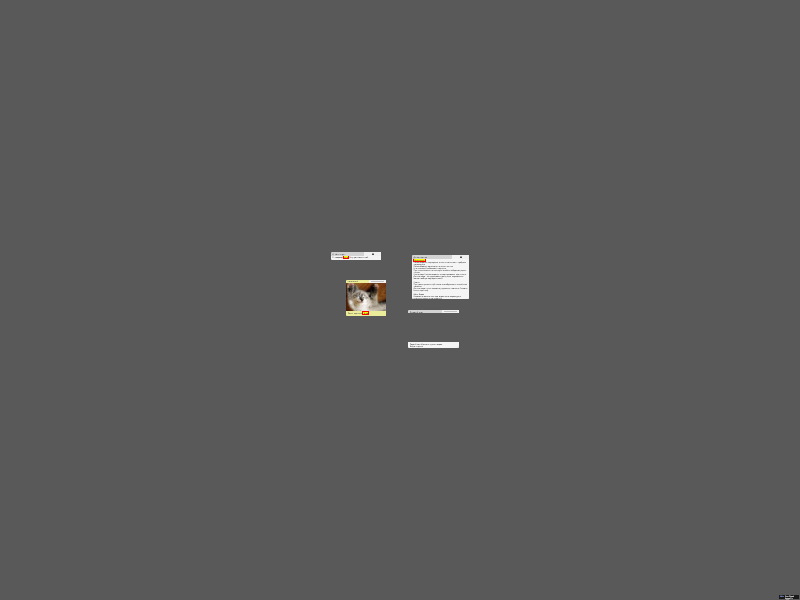
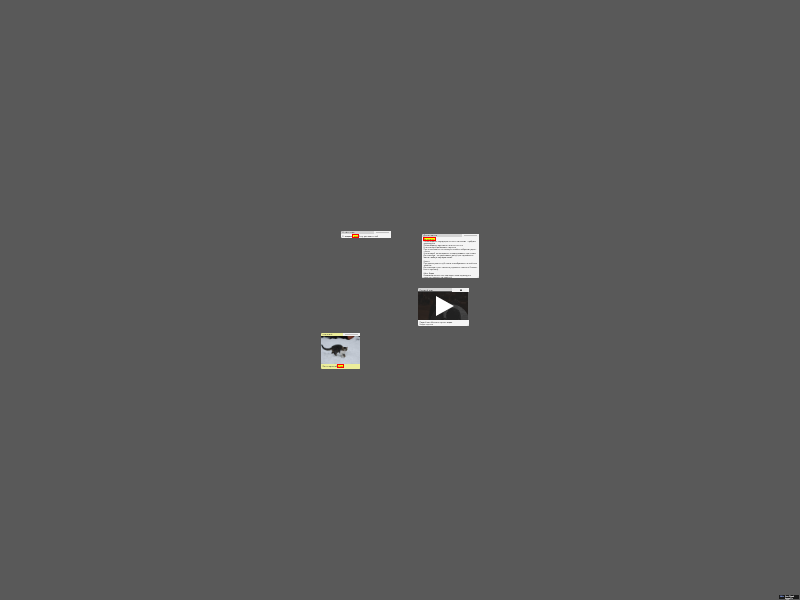
pm2 service screenshooter

Changed region(s): [[0.375, 0.36, 0.625, 0.63]]

diff --git a/tasks/screenshot.js b/tasks/screenshot.js
@@ -3,6 +3,7 @@ require('dotenv').config({ path: path.join(__dirname, '../.env') });
 require('../models/db');
 const Game = require('../models/Game');
 const ScreenshotModel = require('../models/Screenshot');
+const CronJob = require('cron').CronJob;
 const BACKEND_URL = 'http://localhost:3000';
 
 const screenshooter = require('../controllers/screenshooter');
@@ -10,18 +11,21 @@ const screenshooter = require('../controllers/screenshooter');
 const bunyan = require('bunyan');
 const log = bunyan.createLogger({ name: 'turns', level: 'info' });
 
-const start = async () => {
-  // const game = await Game.findById('601e0b9886833003cc473276');
-  const game = await Game.findOne({
-    name: 'Тестовая игра 1',
-    // lastScreenshotTime: {
-    //   $gte: new Date(Date.now() - 1000 * 60 * 10),
-    // },
-  });
+const job = new CronJob(
+  '*/10 * * * * *',
+  function () {
+    console.log('You will see this message every 10 seconds');
+    checkScreenshots();
+  },
+  null,
+  true,
+  'America/Los_Angeles'
+);
+job.start();
 
-  // const screenshotPath = await screenshooter.getScreenshot(game._id);
-  // const screenshotUrl = `${BACKEND_URL}${screenshotPath}`;
+// http://${BACKEND_URL}/games/screenshot?hash=${HASH}
 
+async function screenshotGame(game) {
   const imgBuffer = await screenshooter.getScreenshot(game._id);
   let screenshotModel = await ScreenshotModel.findById(game._id);
   if (!screenshotModel) {
@@ -32,23 +36,42 @@ const start = async () => {
   screenshotModel.data = imgBuffer;
 
   await screenshotModel.save();
-  // http://localhost:3000/games/screenshot?hash=f4d
+}
 
-  // console.log(screenshotUrl);
-  console.log('finished');
-  process.exit(0);
-};
-
-// 601e0b9886833003cc473276
-
-// await screenshooter.getScreenshot(gameId);
-const checkScheenshots = async () => {
+const checkScreenshots = async () => {
   // 1) Понять в каких играх скриншот не актуален
+  const games = await Game.find({
+    dueScreenshotTime: {
+      $gte: new Date(Date.now() - 1000 * 600),
+    },
+  });
 
-  // lastScreenshotTime, dueScreenshotTime
-  // 2) Обновить lastScreenshotTime
-  // 3) Сделать скриншот
-  process.exit(1);
+  const gamesToScreenshot = [];
+  for (let game of games) {
+    if (
+      game.dueScreenshotTime.getTime() !== game.lastScreenshotTime.getTime()
+    ) {
+      gamesToScreenshot.push(game);
+      // console.log(`need to update ${game._id}`);
+    }
+  }
+
+  if (gamesToScreenshot.length) {
+    // for (let game of gamesToScreenshot) {
+    // lastScreenshotTime, dueScreenshotTime
+    // 2) Обновить lastScreenshotTime
+    // 3) Сделать скриншот
+    const game = gamesToScreenshot[0];
+    game.lastScreenshotTime = game.dueScreenshotTime = new Date(); // a = b = c, b = c, a = b
+    // @todo: check if error occured
+    await screenshotGame(game);
+    console.log({
+      dueScreenshotTime: game.dueScreenshotTime,
+      lastScreenshotTime: game.lastScreenshotTime,
+    });
+    await game.save();
+    // }
+  }
+
+  // process.exit(0);
 };
-
-start();

diff --git a/controllers/turns.js b/controllers/turns.js
@@ -1,4 +1,5 @@
 const Turn = require('../models/Turn');
+const Game = require('../models/Game');
 const screenshooter = require('./screenshooter');
 const bunyan = require('bunyan');
 const log = bunyan.createLogger({ name: 'turns', level: 'info' });
@@ -24,7 +25,22 @@ async function updateTurn(req, res) {
   res.json({
     item: turnModel,
   }); // new true говорит отдать новую модель, а не старую
-  await screenshooter.getScreenshot(gameId); // selenium снимок экрана
+  const game = await Game.findOneAndUpdate(
+    {
+      _id: gameId,
+    },
+    {
+      dueScreenshotTime: new Date(),
+    },
+    { new: true } // третий аргумент, вернёт то, что сделал в базе - вернёт Game
+  );
+  console.log({
+    gameId: game._id,
+    gameName: game.name,
+    dueScreenshotTime: game.dueScreenshotTime,
+    lastScreenshotTime: game.lastScreenshotTime,
+  });
+  // await screenshooter.getScreenshot(gameId); // selenium снимок экрана
 }
 
 async function deleteTurn(req, res) {

diff --git a/models/Game.js b/models/Game.js
@@ -54,10 +54,12 @@ const schema = new Schema(
       default: true,
     },
     lastScreenshotTime: {
+      // последний из сделанных на текущий момент
       type: Date,
       default: Date.now,
     },
     dueScreenshotTime: {
+      // актуальный скриншот
       type: Date,
       default: Date.now,
     },
